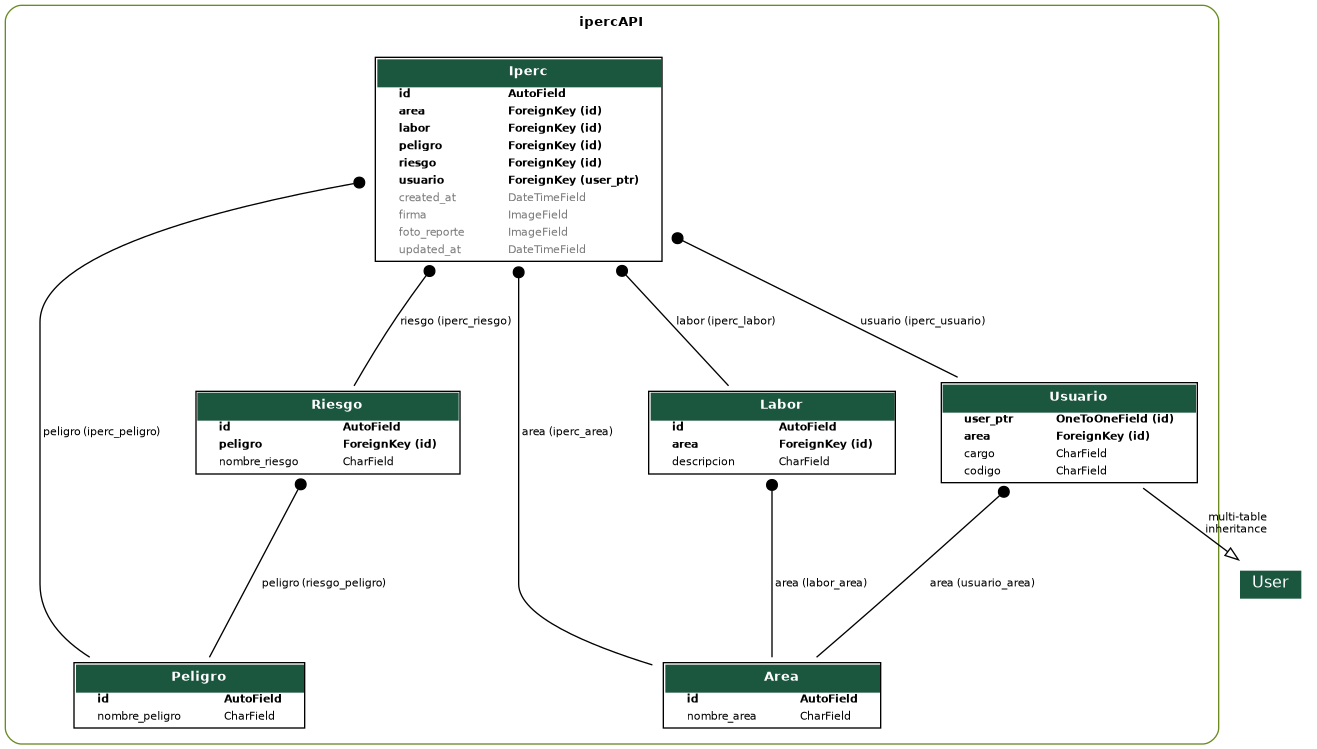
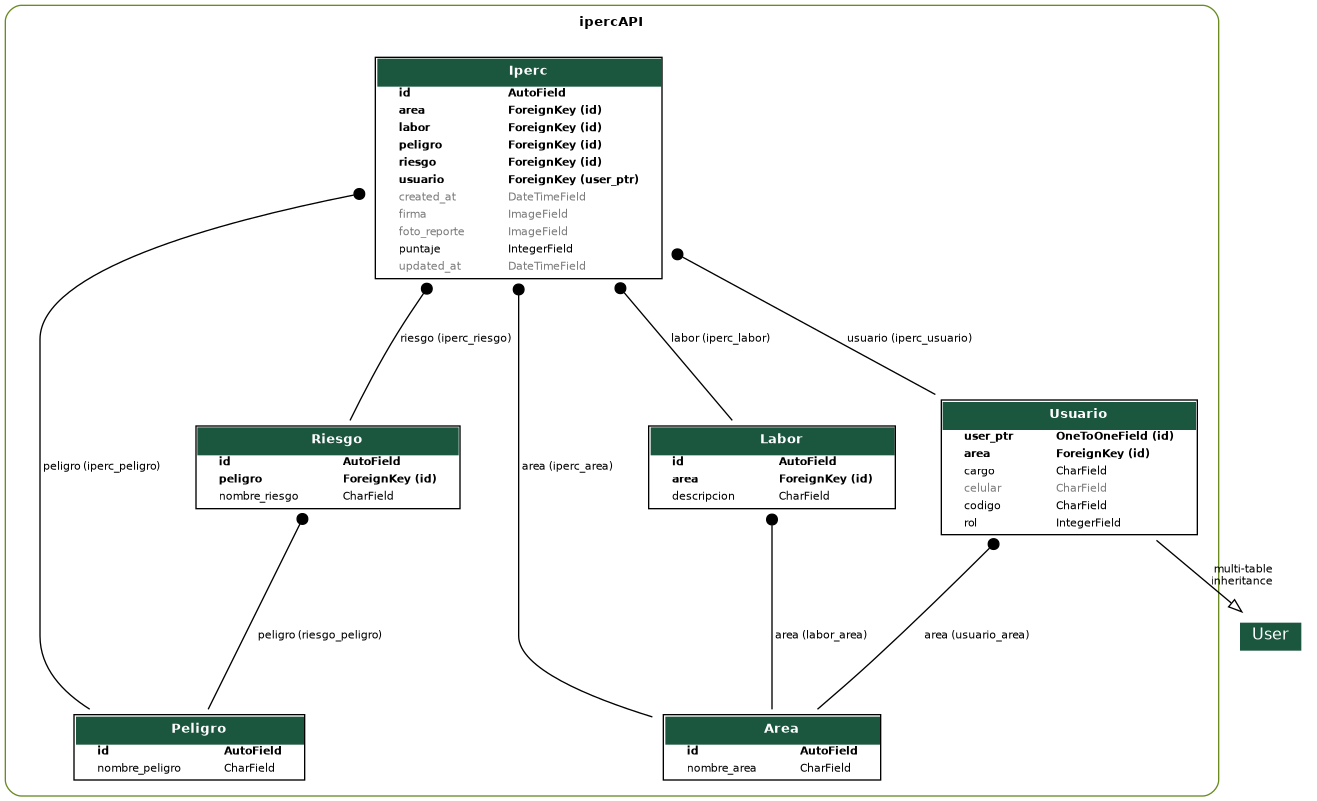
qwe

diff --git a/iperc/ipercAPI/urls.py b/iperc/ipercAPI/urls.py
@@ -19,8 +19,8 @@ urlpatterns = [
 	url(r'^peligro/$', views.PeligroList.as_view()),
 	url(r'^riesgo/$', views.RiesgoList.as_view()),
 	url(r'^iperc/$', views.IpercList.as_view()),
-	url(r'^iperc/(?P<pk>[0-9]+)/', views.IpercList.as_view()),
-	url(r'^iperc/area/(?P<pk>[0-9]+)/', views.IpercList.as_view()),
+	url(r'^iperc/(?P<pk>[0-9]+)/', views.IpercByUser.as_view()),
+	url(r'^iperc/area/(?P<area>[0-9]+)/', views.IpercByArea.as_view()),
 	url(r'^iperc/fecha/(?P<start>[0-9]{4}-?[0-9]{2}-?[0-9]{2})/(?P<end>[0-9]{4}-?[0-9]{2}-?[0-9]{2})/$', views.IpercByDate.as_view()),
 ]
 

diff --git a/iperc/iperc/settings.py b/iperc/iperc/settings.py
@@ -43,6 +43,7 @@ INSTALLED_APPS = [
     'rest_framework',
     'rest_framework_swagger',
     'django_extensions',
+    'corsheaders',
 ]
 
 MIDDLEWARE = [
@@ -53,7 +54,11 @@ MIDDLEWARE = [
     'django.contrib.auth.middleware.AuthenticationMiddleware',
     'django.contrib.messages.middleware.MessageMiddleware',
     'django.middleware.clickjacking.XFrameOptionsMiddleware',
+    'corsheaders.middleware.CorsMiddleware',
+    'django.middleware.common.CommonMiddleware',
 ]
+
+CORS_ORIGIN_ALLOW_ALL=True
 
 ROOT_URLCONF = 'iperc.urls'
 

diff --git a/iperc/ipercAPI/migrations/0008_usuario_celular.py b/iperc/ipercAPI/migrations/0008_usuario_celular.py
@@ -1,0 +1,18 @@
+# Generated by Django 2.2.5 on 2019-09-12 21:50
+
+from django.db import migrations, models
+
+
+class Migration(migrations.Migration):
+
+    dependencies = [
+        ('ipercAPI', '0007_usuario_rol'),
+    ]
+
+    operations = [
+        migrations.AddField(
+            model_name='usuario',
+            name='celular',
+            field=models.CharField(blank=True, max_length=10, null=True),
+        ),
+    ]

diff --git a/iperc/ipercAPI/models.py b/iperc/ipercAPI/models.py
@@ -29,6 +29,7 @@ class Usuario(User):
 	codigo = models.CharField(max_length=30, blank=False, null=False)
 	cargo = models.CharField(max_length=30, blank=False, null=False)
 	rol = models.IntegerField(null=True, default=0, choices=ROLES)
+	celular = models.CharField(blank=True, null=True,max_length=10)
 	area = models.ForeignKey(Area, on_delete=models.CASCADE, related_name='usuario_area')
 
 class Iperc(models.Model):

diff --git a/iperc/ipercAPI/views/usuarios.py b/iperc/ipercAPI/views/usuarios.py
@@ -49,5 +49,4 @@ class UsuarioByToken(views.APIView):
 											"last_name": request.user.last_name,
 											"email": request.user.email,
 											"codigo" : user.codigo,
-											"cargo":user.cargo,
-											"area":user.area})
+											"cargo":user.cargo})

diff --git a/iperc/ipercAPI/views/iperc.py b/iperc/ipercAPI/views/iperc.py
@@ -43,7 +43,7 @@ class IpercByArea(generics.ListAPIView):
 
 	def get_queryset(self):
 		area = self.kwargs['area']
-		area = Area.objects.get(pk = area).first()
+		area = Area.objects.get(pk = area)
 
 		iperc = Iperc.objects.filter(area = area)
 		return iperc
